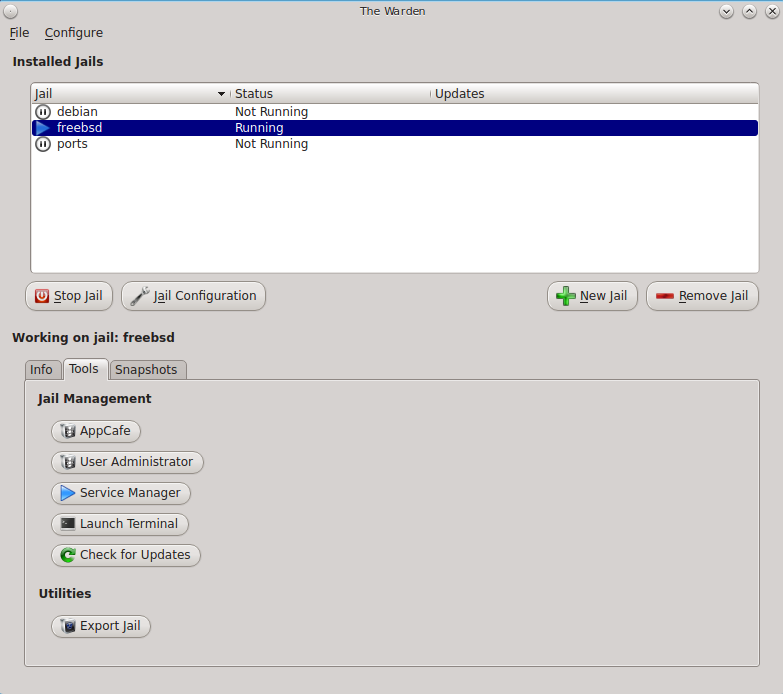
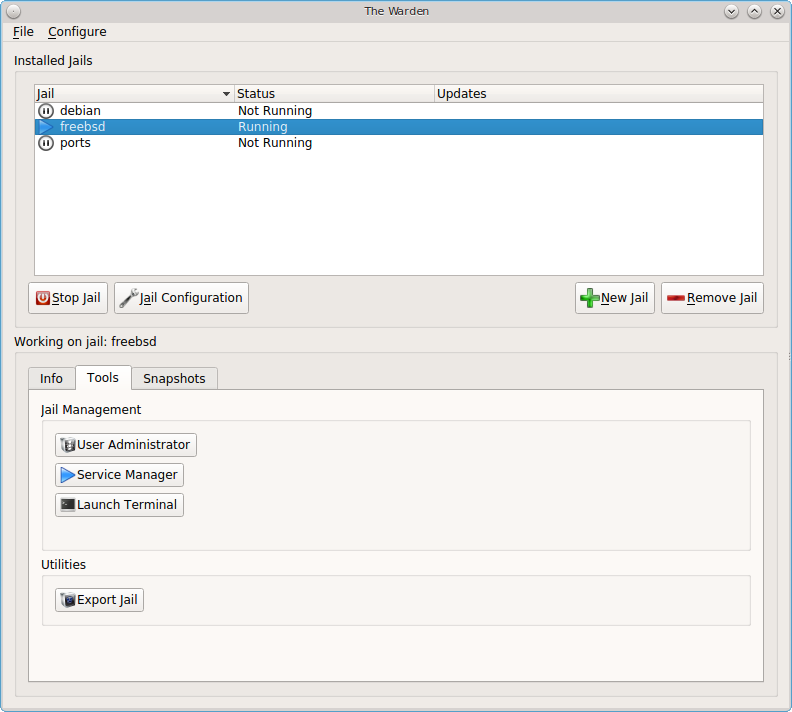
Update warden Tools screen.

diff --git a/src-qt5/docs/controlpanel.rst b/src-qt5/docs/controlpanel.rst
@@ -3136,10 +3136,6 @@ The "Tools" tab, shown in Figure 8.21n, allows you to manage common configuratio
 
 This tab provides the following buttons: 
 
-- **AppCafe**: opens :ref:`AppCafe®` so that you can install packages within the specified traditional or ports jail. Software installed using this method
-  will be tracked by :ref:`Update Manager`, meaning that Warden® will be notified when updates are available for the installed software. Since BSD-based
-  packages are not available for Linux jails, this button is not available if a Linux jail is highlighted.
-
 - **User Administrator:** opens :ref:`User Manager` so that you can manage the highlighted jail's user accounts and groups. The title bar will indicate that
   you are "Editing Users for Jail: Jailname". Note that any users and groups that you have created on your PC-BSD® system will not be added to a traditional
   jail as each traditional jail has its own users and groups. However, a ports jail has access to the users and groups that exist on the PC-BSD® system, yet
@@ -3152,9 +3148,6 @@ This tab provides the following buttons:
 - **Launch Terminal:** opens a terminal with the root user logged into the jail. This allows you to administer the jail from the command line. This button
   will be greyed out if the highlighted jail is not running. You can start a jail by right-clicking its entry and selecting "Start this Jail" from the menu or
   by clicking "Start Jail". 
-
-- **Check for Updates:** launches :ref:`Update Manager` to determine if any system updates are available to be installed into the jail. If an update is found,
-  the text "Updates available!" will appear in the "Updates" column for that jail. Note that this button is not available if a Linux jail is highlighted.
 
 - **Export Jail:** launches a pop-up window prompting you to choose the directory in which to save a backup of the jail (and all of its software,
   configuration, and files) as a :file:`.wdn` file. Creating the :file:`.wdn` file may take some time, especially if you have installed src, ports, or
@@ -3339,7 +3332,7 @@ If you type :command:`warden` at the command line, you will receive a summary of
         list - Lists the installed jails
    pkgupdate - Update packages inside a jail
         pkgs - Lists the installed packages in a jail
-        pbis - Lists the installed pbi's in a jail
+        pbis - Lists the installed pbis in a jail
          set - Sets options for a jail
        unset - Unsets (clears) options for a jail
        start - Start a jail

diff --git a/src-qt5/docs/introduction.rst b/src-qt5/docs/introduction.rst
@@ -218,6 +218,9 @@ The following features or enhancements were introduced for PC-BSD® 10.1.2:
 
 * The "Enable Offsite Backups" option has been added to the "File" menu of Life Preserver.
 
+* The "AppCafe" and "Check for Updates" buttons have been removed from the "Tools" tab of :ref:`Warden®` as AppCafe® is used for :ref:`Managing Software in Jails`
+  and jail updates are managed using :ref:`Update Manager`.
+
 .. index:: Linux
 .. _PC-BSD® for Linux Users:
 
